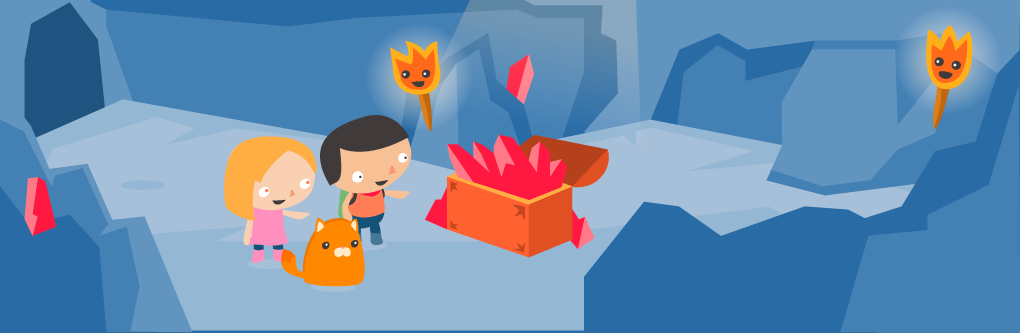
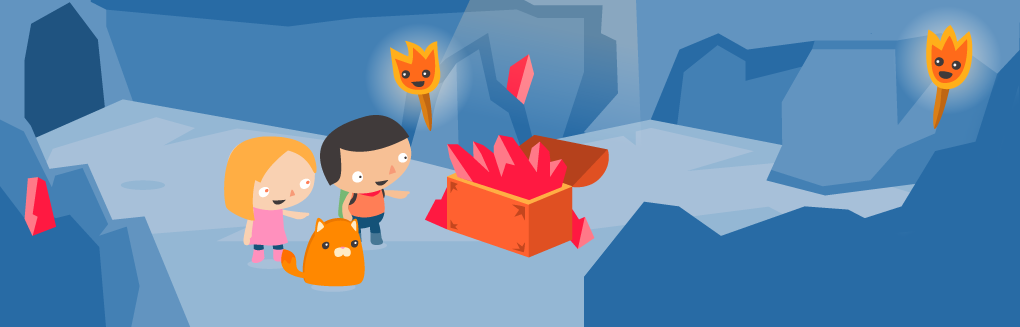
cropped a new image for the background to make it better and clearer

diff --git a/public/stylesheets/screen.css b/public/stylesheets/screen.css
@@ -53,8 +53,8 @@ a img {
   border: none;
 }
 
-.icon-sprite, .icon-fb, .icon-kidsMail1, .icon-kidsMail2, .icon-kidsMail3, .icon-kidsMail4, .icon-rightbackground, .icon-rss, .icon-twitter, .icon-twitterbutton {
-  background: url('../images/icon-sf92213d75b.png') no-repeat;
+.icon-sprite, .icon-fb, .icon-kidsMail1, .icon-kidsMail2, .icon-kidsMail3, .icon-kidsMail4, .icon-rss, .icon-twitter, .icon-twitterbutton {
+  background: url('../images/icon-sfee8d060da.png') no-repeat;
 }
 
 .icon-fb {
@@ -77,20 +77,16 @@ a img {
   background-position: 0 -352px;
 }
 
-.icon-rightbackground {
+.icon-rss {
   background-position: 0 -446px;
 }
 
-.icon-rss {
-  background-position: 0 -720px;
-}
-
 .icon-twitter {
-  background-position: 0 -761px;
+  background-position: 0 -487px;
 }
 
 .icon-twitterbutton {
-  background-position: 0 -805px;
+  background-position: 0 -531px;
 }
 
 :focus, :active {
@@ -118,21 +114,12 @@ button::-moz-focus-inner {
   border: 0;
 }
 
-@media (max-width: 1020px) {
-  body {
-    background: url("/images/kidsRubyTop.png") no-repeat top, url("/images/kidsRubyBottom.png") no-repeat bottom;
-    background-color: #286ba5;
-    font-family: helvetica;
-  }
+body {
+  background: url("/images/kidsRubyTop.png") no-repeat top, url("/images/kidsRubyBottom.png") no-repeat bottom;
+  background-color: #286ba5;
+  font-family: helvetica;
 }
-@media (min-width: 1020px) {
-  body {
-    background: url("/images/kidsRubyTop.png") no-repeat top, url("/images/kidsRubyBottom.png") no-repeat bottom;
-    background-size: 100% 18.8%;
-    background-color: #286ba5;
-    font-family: helvetica;
-  }
-}
+
 label {
   color: #3b678d;
   margin-bottom: 10px;
@@ -241,50 +228,27 @@ nav ul a:hover {
   *zoom: 1;
 }
 
-@media (min-width: 1020px) {
-  img#thumb-drive {
-    -moz-transition-duration: 1s;
-    -webkit-transition-duration: 1s;
-    -o-transition-duration: 1s;
-    transition-duration: 1s;
-    height: 135px;
-    float: left;
-    position: absolute;
-    left: 9%;
-    top: 43px;
-    opacity: 0.8;
-  }
-  img#thumb-drive:hover {
-    opacity: 1;
-    -moz-transform: rotate(-360deg);
-    -webkit-transform: rotate(-360deg);
-    -o-transform: rotate(-360deg);
-    -ms-transform: rotate(-360deg);
-    transform: rotate(-360deg);
-  }
+img#thumb-drive {
+  -moz-transition-duration: 1s;
+  -webkit-transition-duration: 1s;
+  -o-transition-duration: 1s;
+  transition-duration: 1s;
+  height: 135px;
+  float: left;
+  position: relative;
+  left: 42px;
+  top: 43px;
+  opacity: 0.8;
 }
-@media (max-width: 1020px) {
-  img#thumb-drive {
-    -moz-transition-duration: 1s;
-    -webkit-transition-duration: 1s;
-    -o-transition-duration: 1s;
-    transition-duration: 1s;
-    height: 135px;
-    float: left;
-    position: relative;
-    left: 42px;
-    top: 43px;
-    opacity: 0.8;
-  }
-  img#thumb-drive:hover {
-    opacity: 1;
-    -moz-transform: rotate(-360deg);
-    -webkit-transform: rotate(-360deg);
-    -o-transform: rotate(-360deg);
-    -ms-transform: rotate(-360deg);
-    transform: rotate(-360deg);
-  }
+img#thumb-drive:hover {
+  opacity: 1;
+  -moz-transform: rotate(-360deg);
+  -webkit-transform: rotate(-360deg);
+  -o-transform: rotate(-360deg);
+  -ms-transform: rotate(-360deg);
+  transform: rotate(-360deg);
 }
+
 header.sectionTitle {
   overflow: hidden;
   *zoom: 1;
@@ -318,12 +282,6 @@ header.sectionTitle h1 {
   text-align: center;
 }
 
-@media (min-width: 1020px) {
-  header.sectionTitle {
-    margin-top: 230px;
-  }
-}
-
 .hide {
   display: none;
 }
@@ -339,7 +297,7 @@ aside {
   width: 310px;
   color: #4380b4;
   background-color: #dce4ed;
-  min-height: 1178px;
+  min-height: 1190px;
   padding-right: 10px;
 }
 * html aside {
@@ -514,7 +472,7 @@ section {
   -ms-border-bottom-left-radius: 8px;
   -khtml-border-bottom-left-radius: 8px;
   border-bottom-left-radius: 8px;
-  min-height: 1178px;
+  min-height: 1190px;
   background-color: #f3f2f5;
 }
 * html section {

diff --git a/views/stylesheets/screen.scss b/views/stylesheets/screen.scss
@@ -44,21 +44,21 @@ button::-moz-focus-inner {
 }
 
 //adjusts the width of the browser using media property of css.
-@media (max-width: 1020px) {
+// @media (max-width: 1020px) {
   body {
     background: url("/images/kidsRubyTop.png") no-repeat top, url("/images/kidsRubyBottom.png") no-repeat bottom;
     background-color: #286ba5;
     font-family: helvetica;
   }
-}
-@media (min-width: 1020px) {
-  body {
-    background: url("/images/kidsRubyTop.png") no-repeat top, url("/images/kidsRubyBottom.png") no-repeat bottom;
-    background-size: 100% 18.8%;
-    background-color: #286ba5;
-    font-family: helvetica;
-  }
-}
+// }
+// @media (min-width: 1020px) {
+//   body {
+//     background: url("/images/kidsRubyTop.png") no-repeat top, url("/images/kidsRubyBottom.png") no-repeat bottom;
+//     background-size: 100% 18.8%;
+//     background-color: #286ba5;
+//     font-family: helvetica;
+//   }
+// }
 
 label {
   color: #3b678d;
@@ -154,24 +154,24 @@ nav {
 }
 
 //header
-@media (min-width: 1020px) {
-  img#thumb-drive {
-    @include transition-duration(1s);
-    height: 135px;
-    float: left;
-    position: absolute;
-    left: 9%;
-    top: 43px;
-    opacity: 0.8;
+// @media (min-width: 1020px) {
+//   img#thumb-drive {
+//     @include transition-duration(1s);
+//     height: 135px;
+//     float: left;
+//     position: absolute;
+//     left: 9%;
+//     top: 43px;
+//     opacity: 0.8;
 
-    &:hover {
-      opacity: 1;
-      @include rotate(-360deg);
-    }
-  }
-}
+//     &:hover {
+//       opacity: 1;
+//       @include rotate(-360deg);
+//     }
+//   }
+// }
 
-@media (max-width: 1020px) {
+// @media (max-width: 1020px) {
   img#thumb-drive {
     @include transition-duration(1s);
     height: 135px;
@@ -186,7 +186,7 @@ nav {
       @include rotate(-360deg);
     }
   }
-}
+// }
 
 //home
 header.sectionTitle{
@@ -205,11 +205,12 @@ header.sectionTitle{
     text-align: center;
   }
 }
-header.sectionTitle {
-  @media (min-width: 1020px) {
-    margin-top: 230px;
-  }
-}
+
+// @media (min-width: 1020px) {
+//   header.sectionTitle {
+//     margin-top: 230px;
+//   }
+// }
 
 .hide{
   display: none;
@@ -235,7 +236,7 @@ aside {
 
   color: #4380b4;
   background-color: #dce4ed;
-  min-height: 1178px;
+  min-height: 1190px;
   padding-right: 10px;
 
   div.social {
@@ -379,7 +380,7 @@ section {
   @include clearfix;
   @include column(16, true);
   @include border-bottom-left-radius(8px);
-  min-height: 1178px;
+  min-height: 1190px;
 
   background-color: #f3f2f5;
   article {
